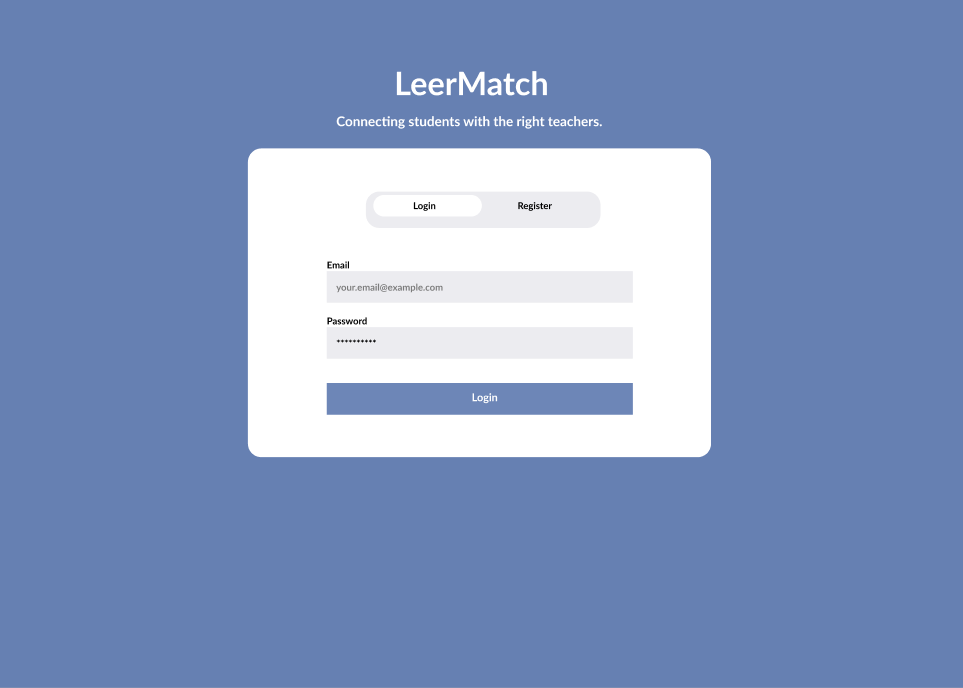
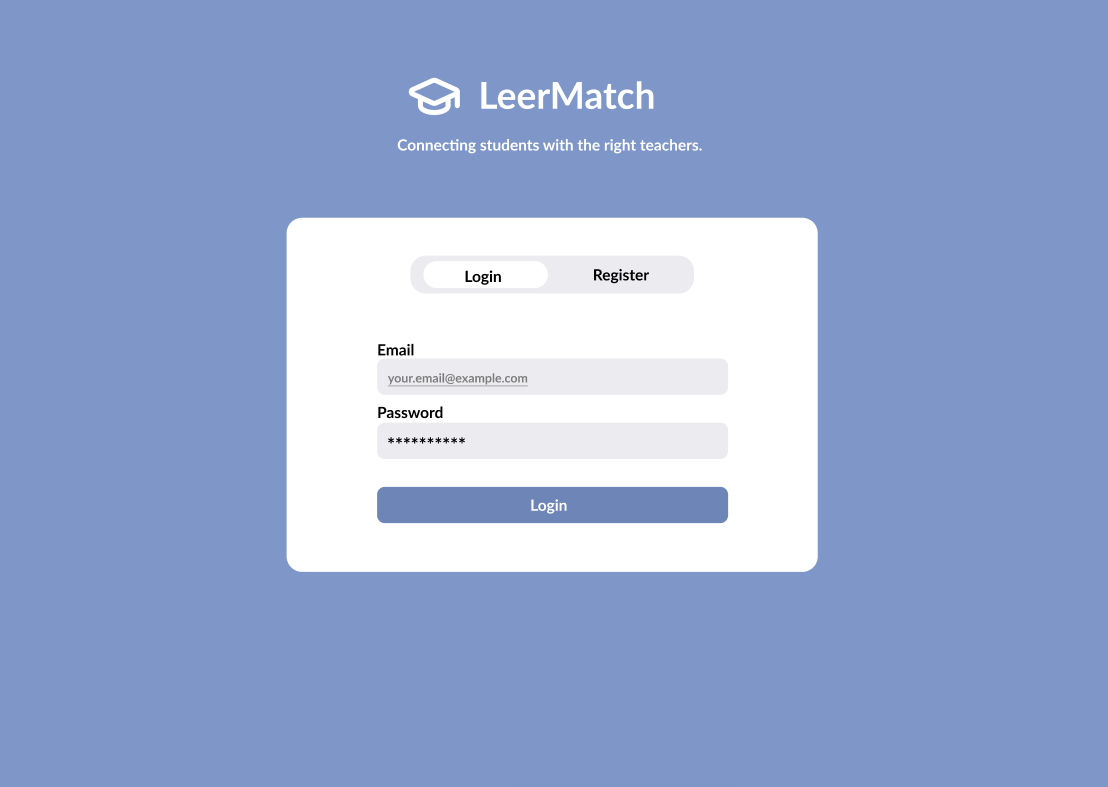
Fixed incorrect links

diff --git a/docs/documentation/figma/wk4.md b/docs/documentation/figma/wk4.md
@@ -1,4 +1,4 @@
-# Week 3
+# Week 4
 
 ## Desktop
 
@@ -11,10 +11,10 @@
 ![](../../img/figma/Week%201/Desktop/Student/reg-1.png)
 ![](../../img/figma/Week%201/Desktop/Student/reg-2.png)
 ![](../../img/figma/Week%201/Desktop/Student/reg-3.png)
-![](../../img/figma/Week%202/Desktop/Student/suggestion.png)
+![](../../img/figma/Week%203/Desktop/Student/suggestion.png)
 ![](../../img/figma/Week%202/Desktop/Student/submit.png)
-![](../../img/figma/Week%202/Desktop/Student/request.png)
-![](../../img/figma/Week%202/Desktop/Student/connections.png)
+![](../../img/figma/Week%203/Desktop/Student/request.png)
+![](../../img/figma/Week%204/Desktop/Student/connections.png)
 ![](../../img/figma/Week%203/Desktop/Student/rate.png)
 ![](../../img/figma/Week%203/Desktop/Student/review.png)
 ![](../../img/figma/Week%202/Desktop/Student/chat.png)
@@ -47,30 +47,54 @@
 
 ### Student Flow
 ![](../../img/figma/Week%201/Mobile/Student/reg-1.png)
+
 ![](../../img/figma/Week%201/Mobile/Student/reg-2.png)
+
 ![](../../img/figma/Week%201/Mobile/Student/reg-3.png)
+
 ![](../../img/figma/Week%202/Mobile/Student/suggestion.png)
+
 ![](../../img/figma/Week%203/Mobile/Student/note.png)
+
 ![](../../img/figma/Week%202/Mobile/Student/submit.png)
+
 ![](../../img/figma/Week%202/Mobile/Student/request.png)
+
 ![](../../img/figma/Week%202/Mobile/Student/connection.png)
+
 ![](../../img/figma/Week%203/Mobile/Student/rate.png)
+
 ![](../../img/figma/Week%204/Mobile/Student/badge.png)
+
 ![](../../img/figma/Week%202/Mobile/Student/chat.png)
+
 ![](../../img/figma/Week%202/Mobile/Student/calendar.png)
 
 ### Teacher Flow
 ![](../../img/figma/Week%201/Mobile/Teacher/reg-1.png)
+
 ![](../../img/figma/Week%201/Mobile/Teacher/reg-2.png)
+
 ![](../../img/figma/Week%201/Mobile/Teacher/reg-3.png)
+
 ![](../../img/figma/Week%201/Mobile/Teacher/reg-4.png)
+
 ![](../../img/figma/Week%202/Mobile/Teacher/reg-5.png)
+
 ![](../../img/figma/Week%202/Mobile/Teacher/reg-6.png)
+
 ![](../../img/figma/Week%202/Mobile/Teacher/fia.png)
+
 ![](../../img/figma/Week%202/Mobile/Teacher/availability.png)
+
 ![](../../img/figma/Week%202/Mobile/Teacher/suggestion.png)
+
 ![](../../img/figma/Week%202/Mobile/Teacher/hr.png)
+
 ![](../../img/figma/Week%202/Mobile/Teacher/students.png)
+
 ![](../../img/figma/Week%202/Mobile/Teacher/chat.png)
+
 ![](../../img/figma/Week%203/Mobile/Teacher/calendar.png)
+
 ![](../../img/figma/Week%203/Mobile/Teacher/info.png)

diff --git a/docs/documentation/figma/wk3.md b/docs/documentation/figma/wk3.md
@@ -11,10 +11,10 @@
 ![](../../img/figma/Week%201/Desktop/Student/reg-1.png)
 ![](../../img/figma/Week%201/Desktop/Student/reg-2.png)
 ![](../../img/figma/Week%201/Desktop/Student/reg-3.png)
-![](../../img/figma/Week%202/Desktop/Student/suggestion.png)
+![](../../img/figma/Week%203/Desktop/Student/suggestion.png)
 ![](../../img/figma/Week%202/Desktop/Student/submit.png)
-![](../../img/figma/Week%202/Desktop/Student/request.png)
-![](../../img/figma/Week%202/Desktop/Student/connections.png)
+![](../../img/figma/Week%203/Desktop/Student/request.png)
+![](../../img/figma/Week%204/Desktop/Student/connections.png)
 ![](../../img/figma/Week%203/Desktop/Student/rate.png)
 ![](../../img/figma/Week%203/Desktop/Student/review.png)
 ![](../../img/figma/Week%202/Desktop/Student/chat.png)
@@ -47,29 +47,52 @@
 
 ### Student Flow
 ![](../../img/figma/Week%201/Mobile/Student/reg-1.png)
+
 ![](../../img/figma/Week%201/Mobile/Student/reg-2.png)
+
 ![](../../img/figma/Week%201/Mobile/Student/reg-3.png)
+
 ![](../../img/figma/Week%202/Mobile/Student/suggestion.png)
+
 ![](../../img/figma/Week%203/Mobile/Student/note.png)
+
 ![](../../img/figma/Week%202/Mobile/Student/submit.png)
+
 ![](../../img/figma/Week%202/Mobile/Student/request.png)
+
 ![](../../img/figma/Week%202/Mobile/Student/connection.png)
+
 ![](../../img/figma/Week%203/Mobile/Student/rate.png)
+
 ![](../../img/figma/Week%202/Mobile/Student/chat.png)
+
 ![](../../img/figma/Week%202/Mobile/Student/calendar.png)
 
 ### Teacher Flow
 ![](../../img/figma/Week%201/Mobile/Teacher/reg-1.png)
+
 ![](../../img/figma/Week%201/Mobile/Teacher/reg-2.png)
+
 ![](../../img/figma/Week%201/Mobile/Teacher/reg-3.png)
+
 ![](../../img/figma/Week%201/Mobile/Teacher/reg-4.png)
+
 ![](../../img/figma/Week%202/Mobile/Teacher/reg-5.png)
+
 ![](../../img/figma/Week%202/Mobile/Teacher/reg-6.png)
+
 ![](../../img/figma/Week%202/Mobile/Teacher/fia.png)
+
 ![](../../img/figma/Week%202/Mobile/Teacher/availability.png)
+
 ![](../../img/figma/Week%202/Mobile/Teacher/suggestion.png)
+
 ![](../../img/figma/Week%202/Mobile/Teacher/hr.png)
+
 ![](../../img/figma/Week%202/Mobile/Teacher/students.png)
+
 ![](../../img/figma/Week%202/Mobile/Teacher/chat.png)
+
 ![](../../img/figma/Week%203/Mobile/Teacher/calendar.png)
+
 ![](../../img/figma/Week%203/Mobile/Teacher/info.png)

diff --git a/docs/documentation/figma/wk2.md b/docs/documentation/figma/wk2.md
@@ -41,26 +41,46 @@
 
 ### Student Flow
 ![](../../img/figma/Week%201/Mobile/Student/reg-1.png)
+
 ![](../../img/figma/Week%201/Mobile/Student/reg-2.png)
+
 ![](../../img/figma/Week%201/Mobile/Student/reg-3.png)
+
 ![](../../img/figma/Week%202/Mobile/Student/suggestion.png)
+
 ![](../../img/figma/Week%202/Mobile/Student/note.png)
+
 ![](../../img/figma/Week%202/Mobile/Student/submit.png)
+
 ![](../../img/figma/Week%202/Mobile/Student/request.png)
+
 ![](../../img/figma/Week%202/Mobile/Student/connection.png)
+
 ![](../../img/figma/Week%202/Mobile/Student/chat.png)
+
 ![](../../img/figma/Week%202/Mobile/Student/calendar.png)
 
 ### Teacher Flow
 ![](../../img/figma/Week%201/Mobile/Teacher/reg-1.png)
+
 ![](../../img/figma/Week%201/Mobile/Teacher/reg-2.png)
+
 ![](../../img/figma/Week%201/Mobile/Teacher/reg-3.png)
+
 ![](../../img/figma/Week%201/Mobile/Teacher/reg-4.png)
+
 ![](../../img/figma/Week%202/Mobile/Teacher/reg-5.png)
+
 ![](../../img/figma/Week%202/Mobile/Teacher/reg-6.png)
+
 ![](../../img/figma/Week%202/Mobile/Teacher/fia.png)
+
 ![](../../img/figma/Week%202/Mobile/Teacher/availability.png)
+
 ![](../../img/figma/Week%202/Mobile/Teacher/suggestion.png)
+
 ![](../../img/figma/Week%202/Mobile/Teacher/hr.png)
+
 ![](../../img/figma/Week%202/Mobile/Teacher/students.png)
+
 ![](../../img/figma/Week%202/Mobile/Teacher/chat.png)

diff --git a/docs/documentation/figma/wk1.md b/docs/documentation/figma/wk1.md
@@ -31,16 +31,26 @@
 
 ### Student Flow
 ![](../../img/figma/Week%201/Mobile/Student/reg-1.png)
+
 ![](../../img/figma/Week%201/Mobile/Student/reg-2.png)
+
 ![](../../img/figma/Week%201/Mobile/Student/reg-3.png)
+
 ![](../../img/figma/Week%201/Mobile/Student/suggestion.png)
+
 ![](../../img/figma/Week%201/Mobile/Student/submit.png)
+
 ![](../../img/figma/Week%201/Mobile/Student/request.png)
+
 ![](../../img/figma/Week%201/Mobile/Student/connections.png)
+
 ![](../../img/figma/Week%201/Mobile/Student/chat.png)
 
 ### Teacher Flow
 ![](../../img/figma/Week%201/Mobile/Teacher/reg-1.png)
+
 ![](../../img/figma/Week%201/Mobile/Teacher/reg-2.png)
+
 ![](../../img/figma/Week%201/Mobile/Teacher/reg-3.png)
+
 ![](../../img/figma/Week%201/Mobile/Teacher/reg-4.png)
